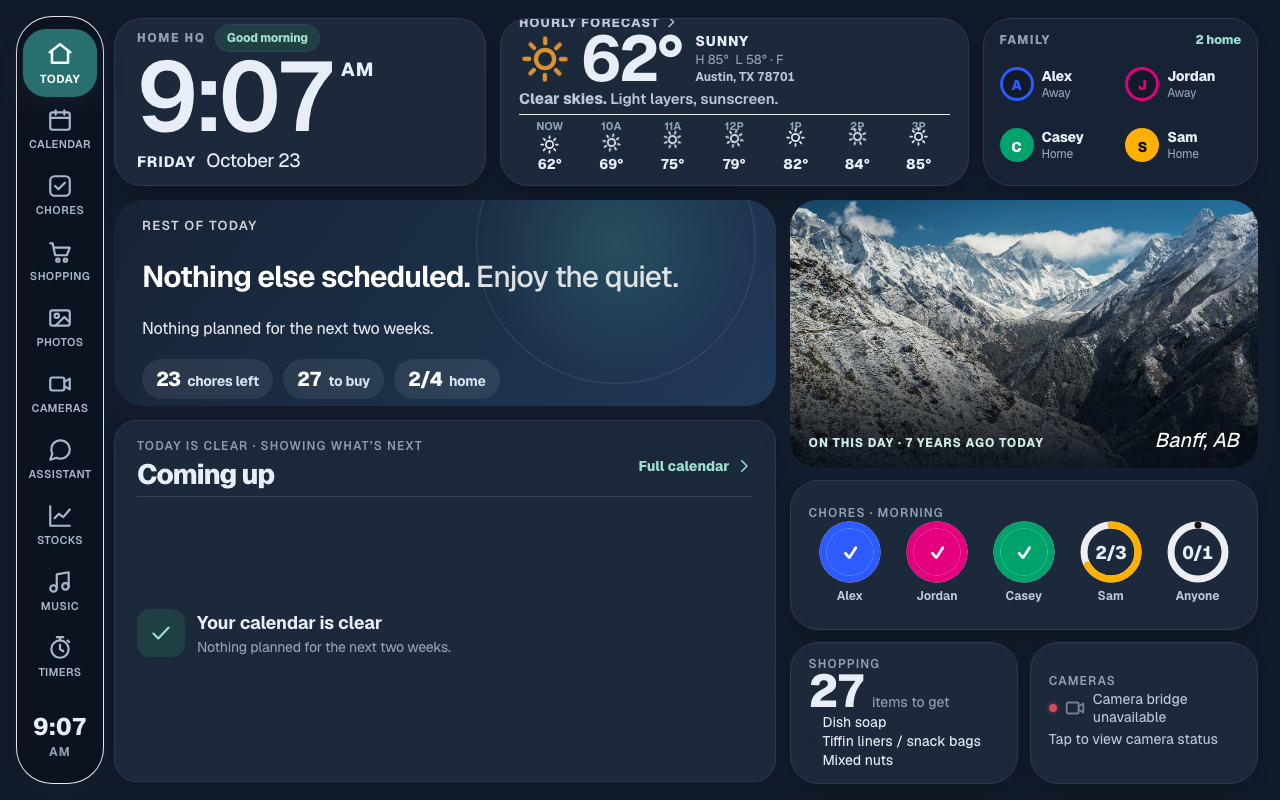
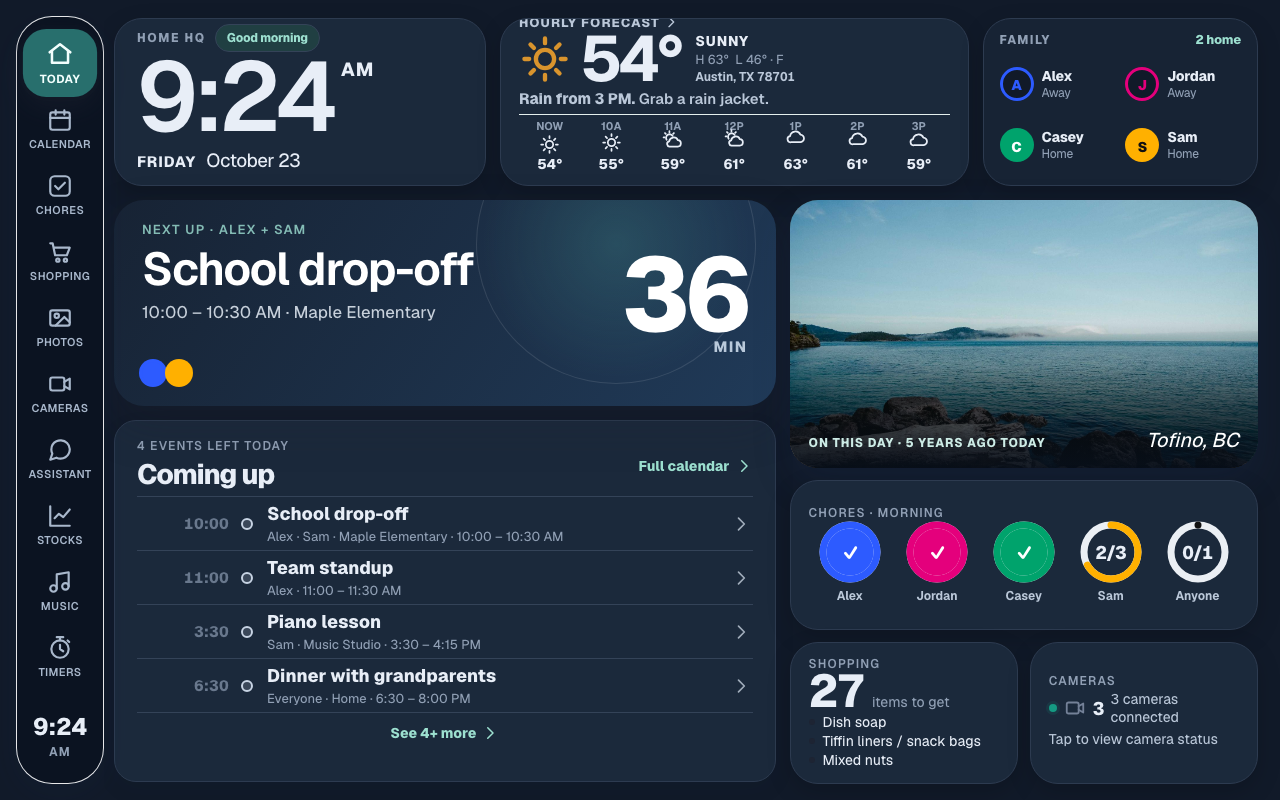
docs: use sample calendar events and camera snapshots in screenshots
- Fix night-mode camera header and empty card colours

diff --git a/dashboard/css/redesign.css b/dashboard/css/redesign.css
@@ -102,3 +102,7 @@ body { font-family: var(--sans); font-weight: 450; letter-spacing: -.011em; }
 
 /* Neutral text accents (were teal/green) so everything shares one graphite accent */
 .h-wx-say b, .h-wx-say strong, .h-agenda-more, .h-more, [data-go="calendar"].link, .h-ag-link { color: var(--ink-2); }
+.stage[data-mode="nightdash"] .camera-view-head,
+.stage[data-mode="nightdash"] .camera-empty { background: #1B293B; border-color: #2D3B50; color: #E8EEF7; }
+.stage[data-mode="nightdash"] .camera-view-head h1 { color: #E8EEF7; }
+.stage[data-mode="nightdash"] .camera-view-head p { color: #A9B8CC; }

diff --git a/README.md b/README.md
@@ -51,8 +51,8 @@ together in a touch-friendly display designed to stay visible across the room.
     <td align="center"><img src="docs/images/tabs/photos-night.png" alt="Photos, night mode" width="100%"><br><sub>Photos · night</sub></td>
   </tr>
   <tr>
-    <td align="center"><img src="docs/images/tabs/control-day.png" alt="Cameras (no bridge configured), day mode" width="100%"><br><sub>Cameras (no bridge configured) · day</sub></td>
-    <td align="center"><img src="docs/images/tabs/control-night.png" alt="Cameras (no bridge configured), night mode" width="100%"><br><sub>Cameras (no bridge configured) · night</sub></td>
+    <td align="center"><img src="docs/images/tabs/control-day.png" alt="Cameras, day mode" width="100%"><br><sub>Cameras · day</sub></td>
+    <td align="center"><img src="docs/images/tabs/control-night.png" alt="Cameras, night mode" width="100%"><br><sub>Cameras · night</sub></td>
   </tr>
   <tr>
     <td align="center"><img src="docs/images/tabs/agents-day.png" alt="Assistant, day mode" width="100%"><br><sub>Assistant · day</sub></td>
